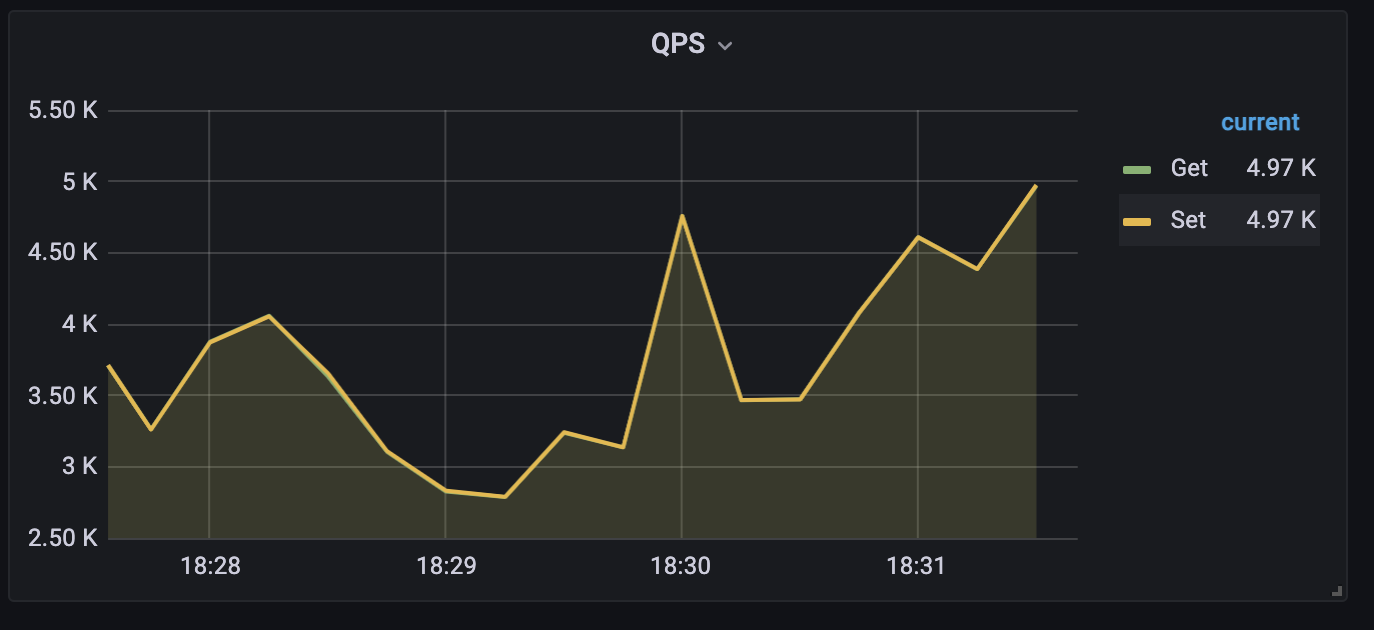
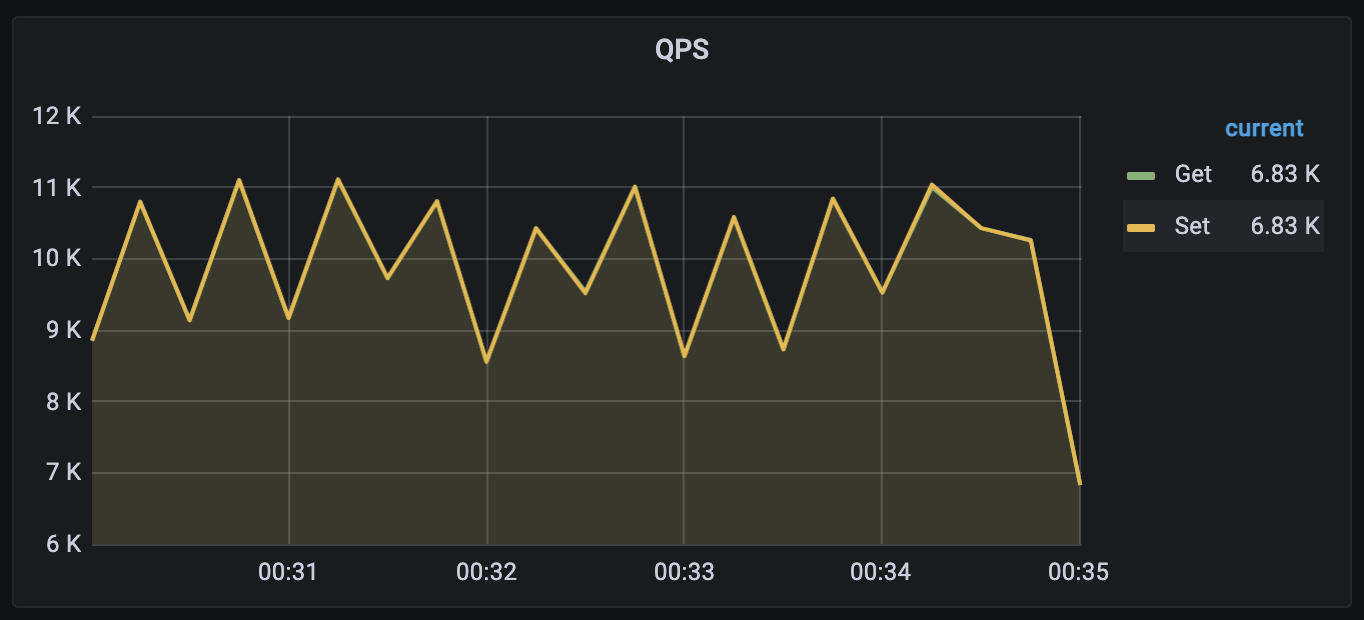
Mod: readme.md

diff --git a/README.md b/README.md
@@ -124,7 +124,7 @@ Testing processor: 2.9GHz Dual-core Core i5
 
 Testing memory: 8GB
 
-**Testing result: peek QPS > 5k，avg QPS > 4k，set avg time < 160ms，get avg time <
+**Testing result: peek QPS > 10k，avg QPS > 9k，set avg time < 80ms，get avg time <
 0.2ms**
 
 <img alt="benchmark" src="https://github.com/yemingfeng/sdb/raw/master/docs/benchmark.png" width="50%" height="50%" />
@@ -180,7 +180,8 @@ LPop | keys, values | remove all values elements from the key array
 LRange | key, offset, limit | traverse keys in array order, starting at 0. If offset = -1, traverse from back to front
 LExist | key, values | determine if values exist in the key array
 LDel | key | delete a key array
-LCount | key | returns the number of elements in the key array, the time complexity is high, **not recommended**
+LCount | key | returns the number of elements in the key array, the time complexity is high, **not
+recommended**
 LMembers | key | traverse keys in array order. high time complexity, **not recommended**
 
 #### set
@@ -191,7 +192,8 @@ SPush | key, values | add values to the key collection
 SPop | keys, values | remove all values elements from the key collection
 SExist | key, values | determine whether values exist in the key set
 SDel | key | delete a key set
-SCount | key | returns the number of elements in the key set, the time complexity is high, **not recommended**
+SCount | key | returns the number of elements in the key set, the time complexity is high, **not
+recommended**
 SMembers | key | iterate over keys by value size. High time complexity, **not recommended**
 
 #### sorted set
@@ -203,8 +205,10 @@ ZPop | keys, values | removes all values elements from the key sorted set
 ZRange | key, offset, limit | according to the score size, iterate over the keys from small to large. If offset = -1, start traversing by score from large to small
 ZExist | key, values | determine whether values exist in the key sorted set
 ZDel | key | delete a key sorted set
-ZCount | key | returns the number of elements in the sorted set of key, the time complexity is high, **not recommended**
-ZMembers | key | according to the score size, iterate over the keys from small to large. High time complexity, **not recommended**
+ZCount | key | returns the number of elements in the sorted set of key, the time complexity is high, **
+not recommended**
+ZMembers | key | according to the score size, iterate over the keys from small to large. High time complexity, **
+not recommended**
 
 #### bloom filter
 
@@ -244,7 +248,8 @@ MPush | key, pairs | add pairs KV pairs to the key map
 MPop | key, keys | remove all keys elements in the key map
 MExist | key, keys | determine whether keys exist in the key map
 MDel | key | delete a map
-MCount | key | returns the number of elements in the key map, the time complexity is high, **not recommended**
+MCount | key | returns the number of elements in the key map, the time complexity is high, **not
+recommended**
 MMembers | key | iterates over pairs by pair.key size. High time complexity, **not recommended**
 
 #### geo hash
@@ -257,8 +262,10 @@ GHAdd | key, points | add the points to the geo hash, and the id in the point is
 GHPop | key, ids | delete points
 GHGetBoxes | key, point | returns a list of points in the same box as a point in the key geo hash, sorted by distance from small to large
 GHGetNeighbors | key, point | returns the list of points closest to the point in the key geo hash, sorted by distance from small to large
-GHCount | key | returns the number of elements in the key geo hash, the time complexity is high, **not recommended**
-GHMembers | key | returns a list of all points in the key geo hash. High time complexity, **not recommended**
+GHCount | key | returns the number of elements in the key geo hash, the time complexity is high, **
+not recommended**
+GHMembers | key | returns a list of all points in the key geo hash. High time complexity, **not
+recommended**
 
 #### page
 
@@ -279,13 +286,19 @@ Publish | topic, payload | post a payload to a topic
 
 #### Install docker version grafana, prometheus (skipable)
 
-- Start [scripts/run_monitor.sh](https://github.com/yemingfeng/sdb/blob/master/scripts/run_monitor.sh)
+-
+Start [scripts/run_monitor.sh](https://github.com/yemingfeng/sdb/blob/master/scripts/run_monitor.sh)
 
 #### Config grafana
 
 - Open grafana: http://localhost:3000 (note to replace the ip address)
-- Create new prometheus datasources: http://host.docker.internal:9090 (If using docker installation, this is the address. If host.docker.internal cannot be accessed, just replace [prometheus.yml](https://github.com/yemingfeng/sdb/blob/master/scripts/prometheus.yml) file host.docker.internal is your own ip address)
-- Import [scripts/dashboard.json](https://github.com/yemingfeng/sdb/blob/master/scripts/dashboard.json) file into grafana dashboard
+- Create new prometheus datasources: http://host.docker.internal:9090 (If using docker installation,
+  this is the address. If host.docker.internal cannot be accessed, just
+  replace [prometheus.yml](https://github.com/yemingfeng/sdb/blob/master/scripts/prometheus.yml)
+  file host.docker.internal is your own ip address)
+-
+Import [scripts/dashboard.json](https://github.com/yemingfeng/sdb/blob/master/scripts/dashboard.json)
+file into grafana dashboard
 
 The final effect can refer to: grafana diagram of performance test
 
@@ -399,7 +412,7 @@ func LRPush(key []byte, values [][]byte) (bool, error) {
 
 The logic of LLPush is very similar to that of LRPush. The difference is that as long as
 {unique_ordering_key} is negative, it becomes the minimum value. In order to ensure that the values
-are internally ordered, we have to - index. The logic is as follows:
+are internally ordered, we have to - index. The logic is as follows:
 
 ```go
 func LLPush(key []byte, values [][]byte) (bool, error) {
@@ -592,11 +605,15 @@ In this way, the data structure, KV storage, and relational model are connected.
 
 ### SDB principle - communication protocol scheme
 
-After solving the problems of storage and data structure, SDB faces the problem of the [last mile] which is the choice of communication protocol.
+After solving the problems of storage and data structure, SDB faces the problem of the [last mile]
+which is the choice of communication protocol.
 
-SDB is positioned to support multiple languages, so it is necessary to choose a communication framework that supports multiple languages.
+SDB is positioned to support multiple languages, so it is necessary to choose a communication
+framework that supports multiple languages.
 
-grpc is a very good choice. You only need to use the SDB proto file to automatically generate clients in various languages through the protoc command line tool, which solves the problem of developing different clients.
+grpc is a very good choice. You only need to use the SDB proto file to automatically generate
+clients in various languages through the protoc command line tool, which solves the problem of
+developing different clients.
 
 ------
 
@@ -605,6 +622,8 @@ grpc is a very good choice. You only need to use the SDB proto file to automatic
 #### v1.7.0
 
 - [commit](https://github.com/yemingfeng/sdb/commit/5e29f5bf50847898cbffa9046df75f2f4fa3ffb6)
-  Use sharding to store bitset, bitset no longer needs to be initialized, with the function of [automatic expansion]
+  Use sharding to store bitset, bitset no longer needs to be initialized, with the function
+  of [automatic expansion]
 
-### **Thanks to the power of open source, I will not list them all here, please move to [go.mod](https://github.com/yemingfeng/sdb/blob/master/go.mod)**
+### **Thanks to the power of open source, I will not list them all here, please move
+to [go.mod](https://github.com/yemingfeng/sdb/blob/master/go.mod)**

diff --git a/README-CN.md b/README-CN.md
@@ -118,7 +118,7 @@ func main() {
 
 内存：8GB
 
-**测试结果： peek QPS > 5k，avg QPS > 4k，set avg time < 160ms，get avg time <
+**测试结果： peek QPS > 10k，avg QPS > 8k，set avg time < 80ms，get avg time <
 0.2ms**
 
 <img alt="benchmark" src="https://github.com/yemingfeng/sdb/raw/master/docs/benchmark.png" width="50%" height="50%" />
